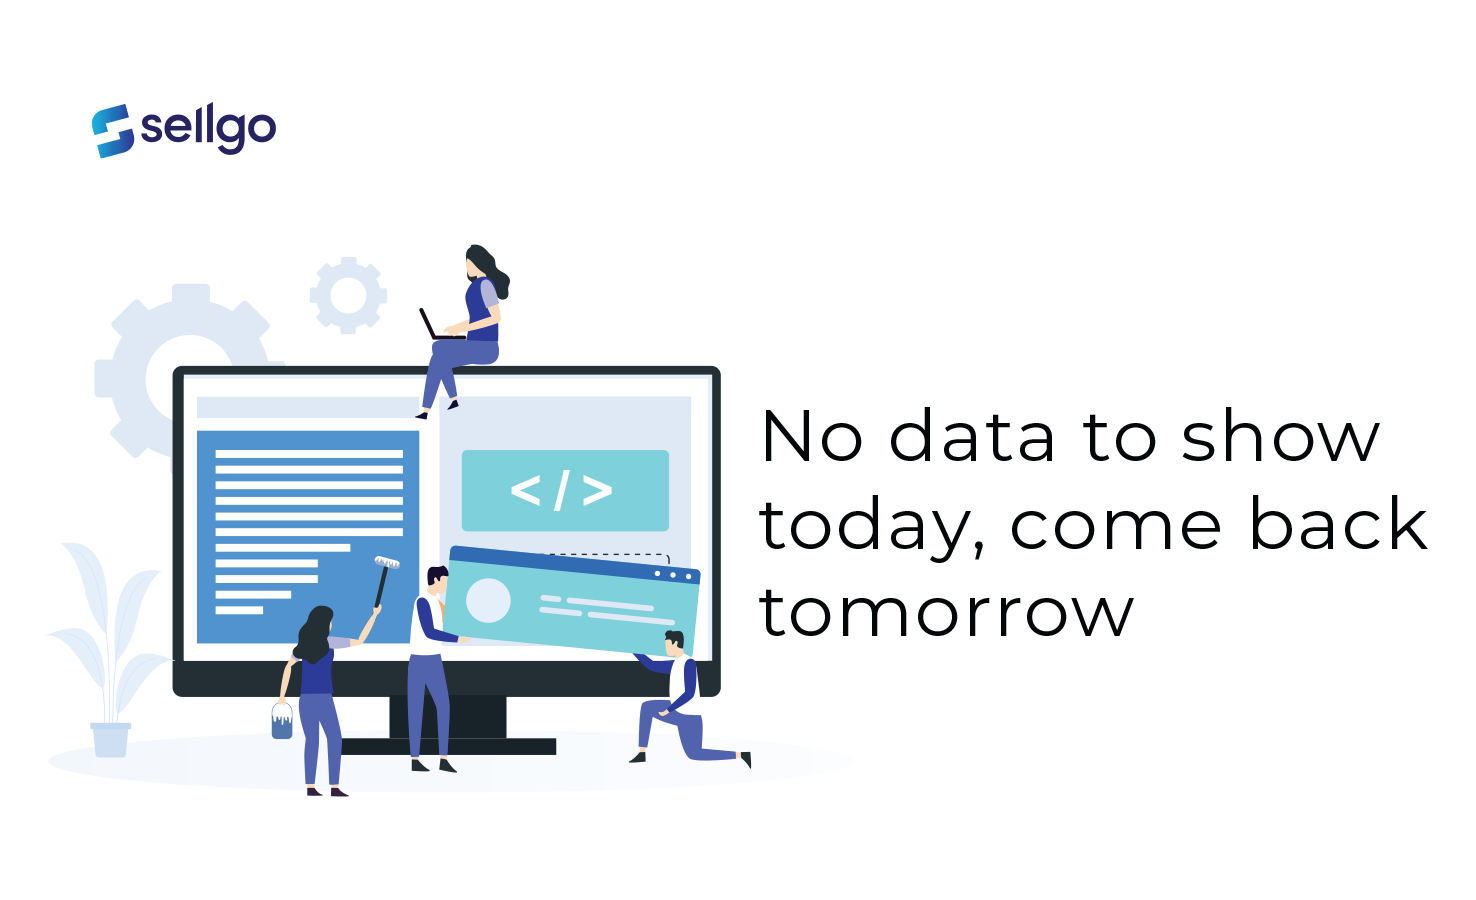
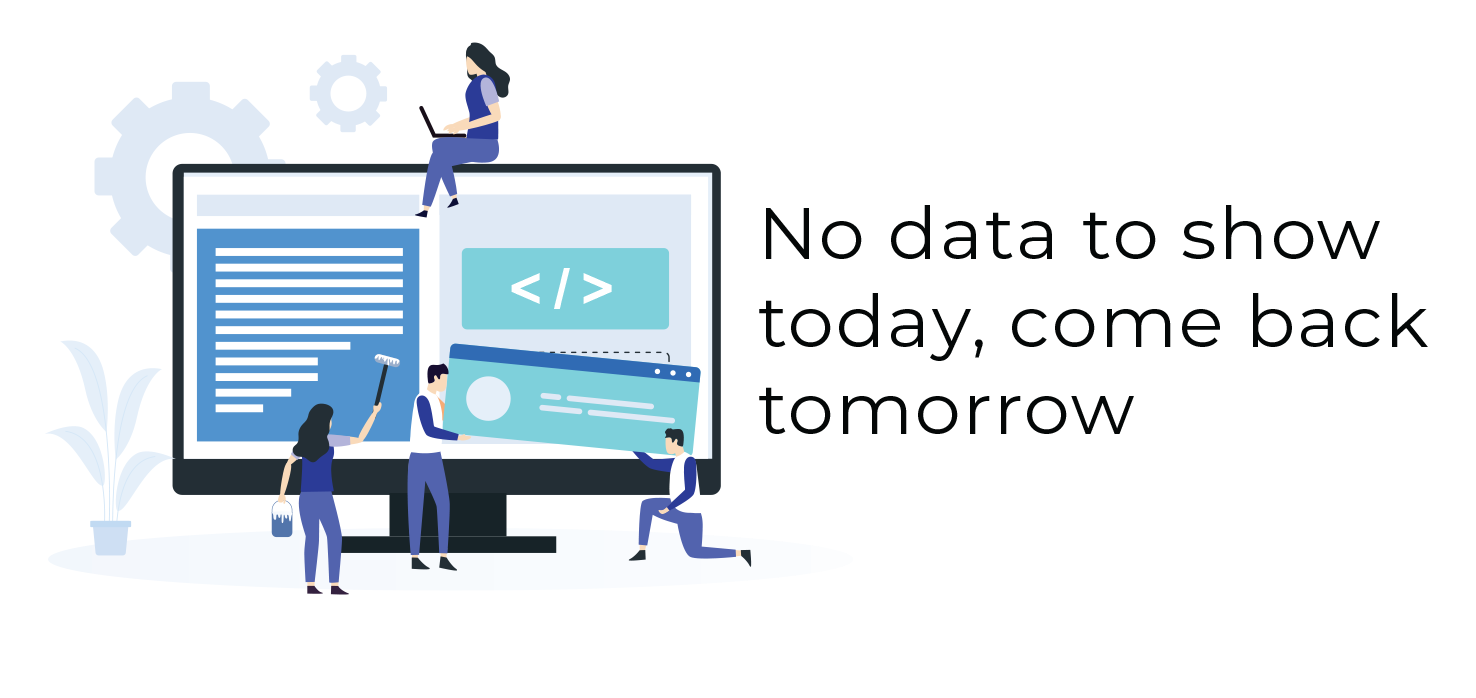
BUGFR-821 : Updating the construction page with header in preview non-scroll behav

Changed region(s): [[0.0312, 0.0602, 0.9661, 0.9026], [0.4986, 0.4212, 0.9661, 0.5115]]

diff --git a/src/components/Table/index.tsx b/src/components/Table/index.tsx
@@ -9,6 +9,8 @@ import { TableBody } from './TableBody';
 import TableHeader from './TableHeader';
 import Pagination from '../Pagination';
 
+import ConstructionImage from '../../components/ConstructionImage/';
+
 export interface Column {
   render?: (row: any) => string | JSX.Element;
   dataKey?: string;
@@ -425,17 +427,21 @@ export const GenericTable = (props: GenericTableProps) => {
           filterValues={filterValues}
           resetPage={(sortDirection: string, dataKey: string) => resetPage(sortDirection, dataKey)}
         />
-        <TableBody
-          extendedInfo={extendedInfo}
-          columns={columns}
-          columnFilterData={filteredColumns}
-          type={name}
-          rows={rows}
-          expandedRows={expandedRows}
-          middleScroll={middleScroll}
-          rowExpander={rowExpander}
-          loading={loading}
-        />
+        {count < 1 ? (
+          <ConstructionImage />
+        ) : (
+          <TableBody
+            extendedInfo={extendedInfo}
+            columns={columns}
+            columnFilterData={filteredColumns}
+            type={name}
+            rows={rows}
+            expandedRows={expandedRows}
+            middleScroll={middleScroll}
+            rowExpander={rowExpander}
+            loading={loading}
+          />
+        )}
 
         {pagination && (
           <Table.Footer className={showTableLock ? 'lock-footer' : ''}>

diff --git a/src/containers/LeadsTracker/LeadsTrackerTable/index.tsx b/src/containers/LeadsTracker/LeadsTrackerTable/index.tsx
@@ -21,8 +21,6 @@ import DetailButtons from './detailButtons';
 import LeadsTrackerFilterSection from '../LeadsTrackerFilterSection';
 import { fetchFilters, FetchLeadsFilters, fetchLeadsKPIs } from '../../../actions/LeadsTracker';
 
-import ConstructionImage from '../../../components/ConstructionImage';
-
 export interface CheckedRowDictionary {
   [index: number]: boolean;
 }
@@ -567,9 +565,7 @@ class LeadsTracker extends React.Component<LeadsTrackerTableProps, any> {
 
     return (
       <div className={`leads-table ${loading && 'disabled'}`}>
-        {!loading && totalRecords < 1 ? (
-          <ConstructionImage />
-        ) : (
+        {!loading && (
           <React.Fragment>
             <div style={{ display: 'flex' }}>
               {columns.slice(0, 5).map((c: any, i: any) => (

diff --git a/src/components/ConstructionImage/index.scss b/src/components/ConstructionImage/index.scss
@@ -1,12 +1,23 @@
 .construction-image {
-  width: 100%;
-  height: 100%;
+  width: 80%;
+  height: 80%;
   display: flex;
   justify-content: center;
   align-items: center;
-  margin-top: 5rem;
+  position: fixed;
+  top: 50%;
+  left: 50%;
+  transform: translate(-50%, -50%);
+
+  @media only screen and (min-width: 1500px) {
+    top: 60%;
+  }
 
   img {
-    max-width: 70%;
+    max-width: 100%;
+
+    @media only screen and (min-width: 1500px) {
+      max-width: 70%;
+    }
   }
 }
